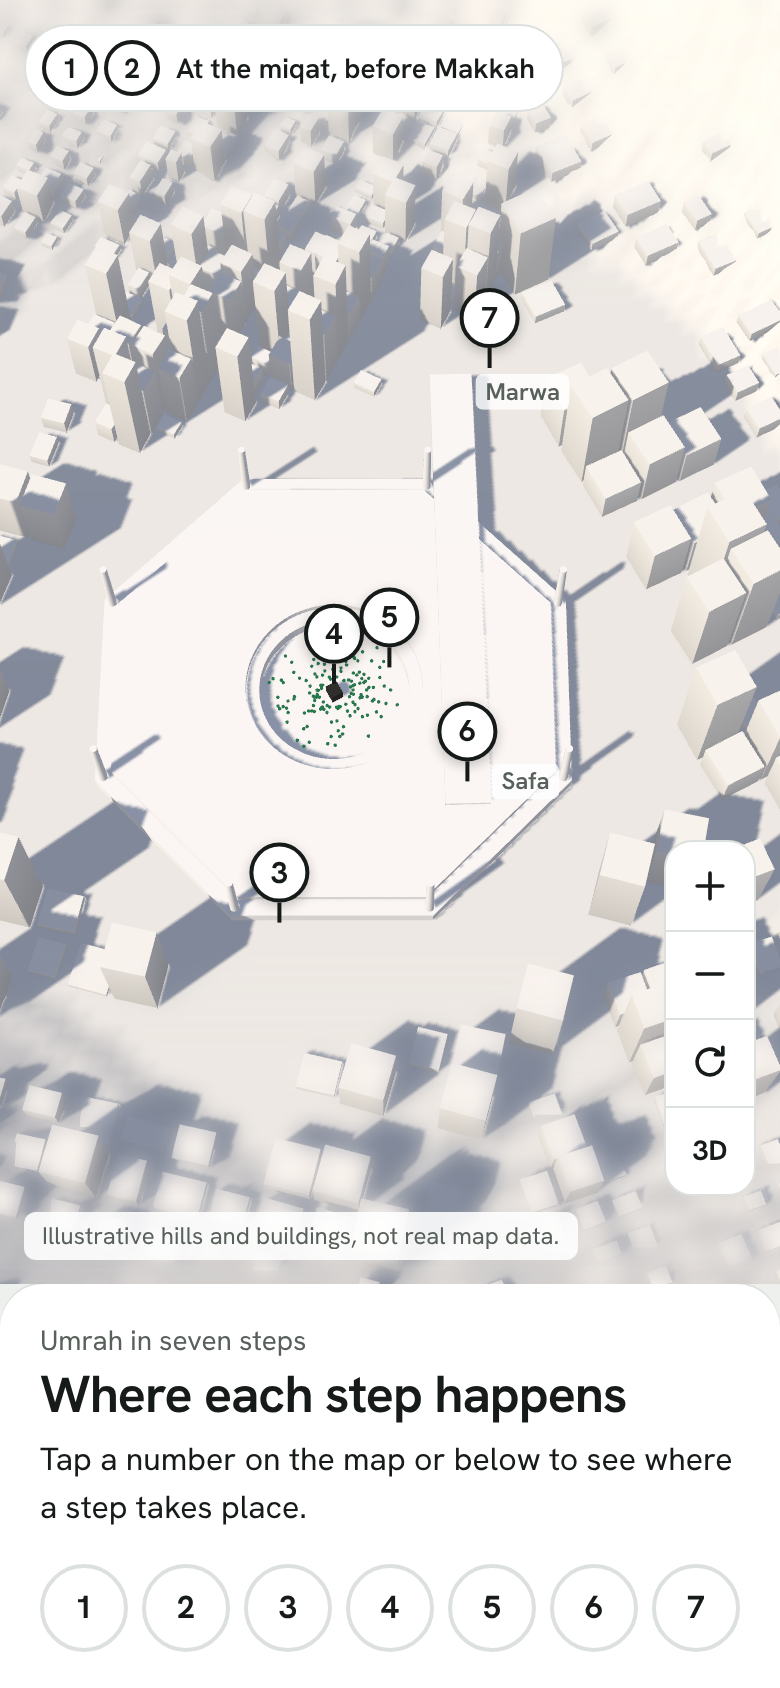
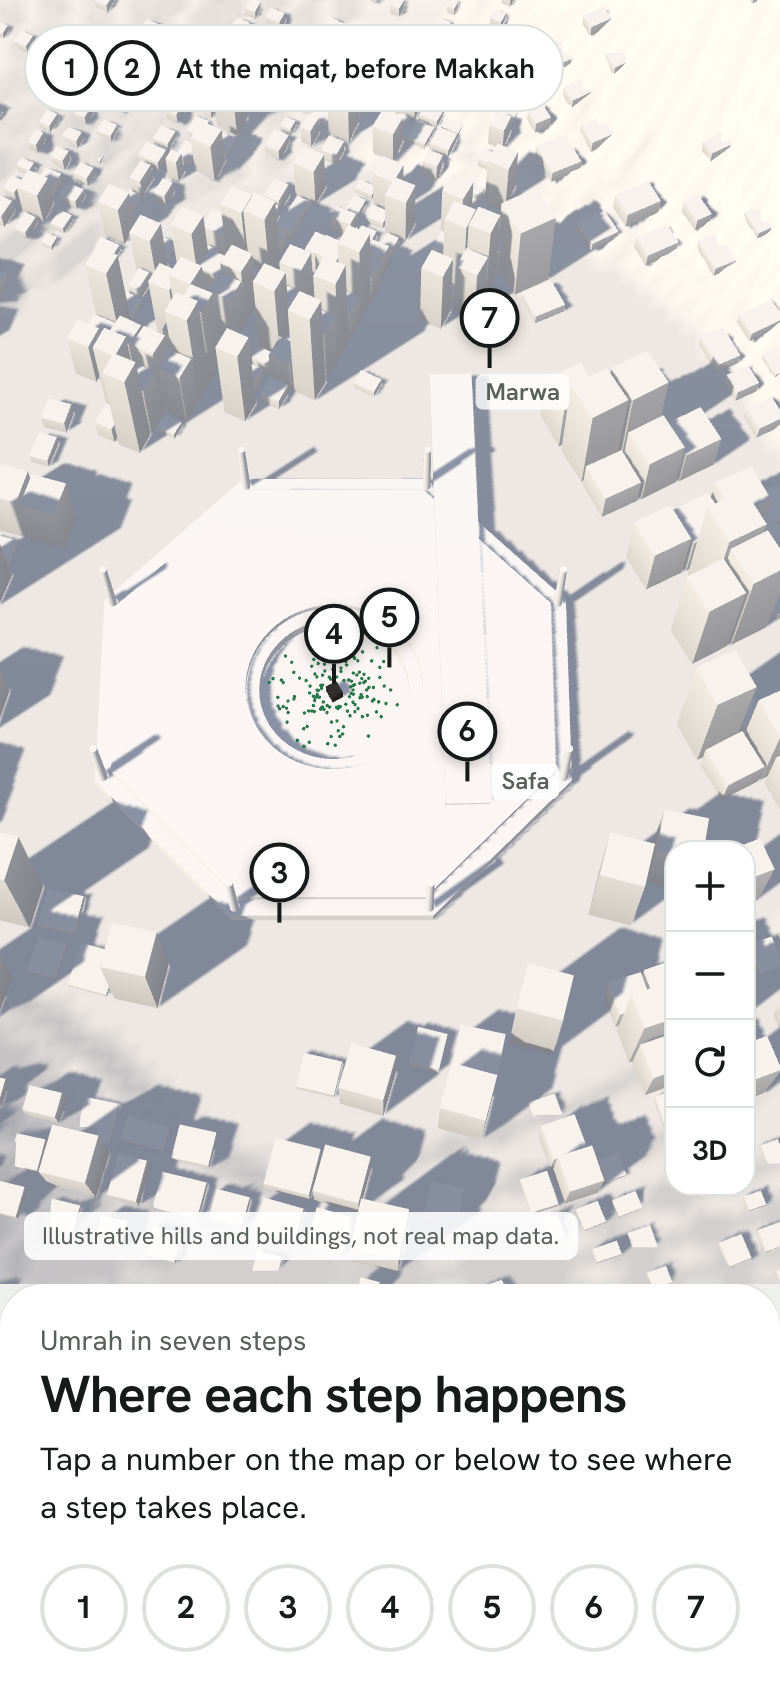
Remove the edge blur from the model look
Claude-Session: https://claude.ai/code/session_01NUgj7qBMpTmH3NyfijWBme

diff --git a/src/styles.css b/src/styles.css
@@ -79,17 +79,6 @@ button:focus-visible {
   touch-action: none;
 }
 
-/* Soft blur at the top and bottom edges gives a miniature-model feel. */
-.tilt-shift {
-  position: absolute;
-  inset: 0;
-  pointer-events: none;
-  backdrop-filter: blur(5px);
-  -webkit-backdrop-filter: blur(5px);
-  mask-image: linear-gradient(to bottom, #000 0%, transparent 24%, transparent 74%, #000 100%);
-  -webkit-mask-image: linear-gradient(to bottom, #000 0%, transparent 24%, transparent 74%, #000 100%);
-}
-
 .pins {
   position: absolute;
   inset: 0;
@@ -351,16 +340,4 @@ h1 {
   font-weight: 650;
   font-size: 15px;
   white-space: nowrap;
-}
-
-/* Layering on the map: canvas, then edge blur, then pins and controls. */
-.tilt-shift {
-  z-index: 1;
-}
-
-.pins,
-.miqat,
-.map-controls,
-.notice {
-  z-index: 2;
 }

diff --git a/src/App.tsx b/src/App.tsx
@@ -118,7 +118,6 @@ export function App() {
           </button>
         </div>
 
-        {LOOK === 'model' && <div className="tilt-shift" aria-hidden="true" />}
         <p className="notice">
           {LOOK === 'model'
             ? 'Illustrative hills and buildings, not real map data.'
